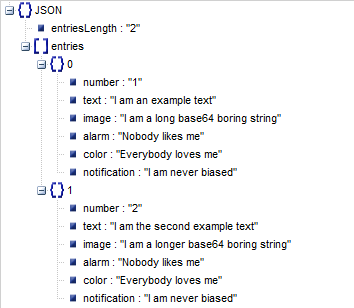
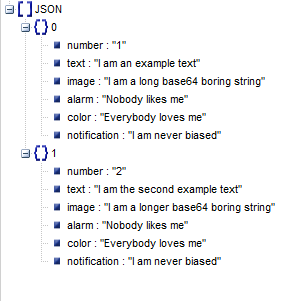
added json serializer/deserializer & new json structure

Changed region(s): [[0.0, 0.0, 1.0, 0.9269], [0.1776, 0.9568, 0.6809, 0.9867]]

diff --git a/SSI/SSI/DatabaseLink.cs b/SSI/SSI/DatabaseLink.cs
@@ -12,28 +12,23 @@ namespace SSI
     class DatabaseLink
     {
         public string error;
+        string defaultUri = "http://localhost/ssi/ssi_api.php?action=";
+        string emailArg = "&email=";
+        string dateArg = "&date=";
+        string image = "&image=";
         public DatabaseLink()
-        {
-
+        {            
         }
         public string GetEvent(string email, string date)
         {
             WebClient wb = new WebClient();
-            string text = wb.DownloadString("http://localhost/ssi/ssi_api.php?action=get_user_event&email="+email+"&date="+date);
+            string text = wb.DownloadString(defaultUri+"get_user_event"+emailArg+email+dateArg+date);
             return text;
-            /*string URI = "http://localhost/ssi/ssi_api.php?action=get_user_event";
-            string myParameters = "email=" + email + "&date=" + date;
-            Uri urivar = new Uri(URI);
-            using (WebClient wc = new WebClient())
-            {
-                wc.Headers[HttpRequestHeader.ContentType] = "application/x-www-form-urlencoded";
-                string result = wc.UploadString(URI, myParameters);                
-                return result;
-            }*/
+            
         }
         public string InsertEvent(string email,string date,string text,string image)
         {
-            string URI = "http://localhost/ssi/ssi_api.php?action=insert_event";
+            string URI = defaultUri+"insert_event";
             string myParameters = "email=" + email +"&date="+date+ "&text=" + text + "&image=" + image;
 
             using (WebClient wc = new WebClient())
@@ -45,7 +40,7 @@ namespace SSI
         }
         public string UserLogin(string email, string password)
         {
-            string URI = "http://localhost/ssi/ssi_api.php?action=login";
+            string URI = defaultUri+"login";
             string myParameters = "email=" + email + "&password=" + password;
 
             using (WebClient wc = new WebClient())
@@ -58,34 +53,35 @@ namespace SSI
         public string InsertUser(string email, string password, string name)
         {
             WebClient wb = new WebClient();
-            string text = wb.DownloadString("http://localhost/ssi/ssi_api.php?action=insert&fbid=' '" + "&email=" + email + "&password=" + password + "&name=" + name);
+            string text = wb.DownloadString(defaultUri+"insert&fbid=' '" + "&email=" + email + "&password=" + password + "&name=" + name);
             return Error(text);
             
         }
         public string InsertUser(string fbid ,string email , string password,string name)
         {
             WebClient wb = new WebClient();
-            string text = wb.DownloadString("http://localhost/ssi/ssi_api.php?action=insert&"+"&fbid="+fbid+"&email="+email+"&password="+password+"&name="+name);
+            string text = wb.DownloadString(defaultUri+"insert&"+"&fbid="+fbid+"&email="+email+"&password="+password+"&name="+name);
             return Error(text);
         }
         public string InsertUser(string fbid, string email, string password, string name, string image)
         {
-            string URI = "http://localhost/ssi/ssi_api.php?action=insert";
+            string URI = defaultUri+"insert";
             string myParameters = "fbid="+fbid+"&email=" + email + "&password=" + password + "&name=" + name + "&image=" + image;
-
-            using (WebClient wc = new WebClient())
+            try
             {
-                wc.Headers[HttpRequestHeader.ContentType] = "application/x-www-form-urlencoded";
-                string result = wc.UploadString(URI, myParameters);
-                return result;
+                using (WebClient wc = new WebClient())
+                {
+                    wc.Headers[HttpRequestHeader.ContentType] = "application/x-www-form-urlencoded";
+                    string result = wc.UploadString(URI, myParameters);
+                    return result;
+                }
+            }
+            catch (System.Net.WebException)
+            {
+                return "Error";
             }
         }
-        /*public string InsertUser(string fbid, string email, string password, string name,string image, string settings)
-        {
-            WebClient wb = new WebClient();
-            string text = wb.DownloadString("http://localhost/ssi/ssi_api.php?action=insert&" + "&fbid=" + fbid + "&email=" + email + "&password=" + password + "&name=" + name + "&image=" + image + "&settings=" + settings);
-            return Error(text);
-        }*/
+        
         public string Error(string result)
         {
             if (result.Contains("ERR_"))

diff --git a/SSI/SSI/Component1.Designer.cs b/SSI/SSI/Component1.Designer.cs
@@ -1,0 +1,36 @@
+namespace SSI
+{
+    partial class Component1
+    {
+        /// <summary>
+        /// Required designer variable.
+        /// </summary>
+        private System.ComponentModel.IContainer components = null;
+
+        /// <summary> 
+        /// Clean up any resources being used.
+        /// </summary>
+        /// <param name="disposing">true if managed resources should be disposed; otherwise, false.</param>
+        protected override void Dispose(bool disposing)
+        {
+            if (disposing && (components != null))
+            {
+                components.Dispose();
+            }
+            base.Dispose(disposing);
+        }
+
+        #region Component Designer generated code
+
+        /// <summary>
+        /// Required method for Designer support - do not modify
+        /// the contents of this method with the code editor.
+        /// </summary>
+        private void InitializeComponent()
+        {
+            components = new System.ComponentModel.Container();
+        }
+
+        #endregion
+    }
+}

diff --git a/SSI/SSI/Component1.cs b/SSI/SSI/Component1.cs
@@ -1,0 +1,25 @@
+using System;
+using System.Collections.Generic;
+using System.ComponentModel;
+using System.Diagnostics;
+using System.Linq;
+using System.Text;
+using System.Threading.Tasks;
+
+namespace SSI
+{
+    public partial class Component1 : Component
+    {
+        public Component1()
+        {
+            InitializeComponent();
+        }
+
+        public Component1(IContainer container)
+        {
+            container.Add(this);
+
+            InitializeComponent();
+        }
+    }
+}

diff --git a/SSI/SSI/EventList.cs b/SSI/SSI/EventList.cs
@@ -1,0 +1,20 @@
+using System;
+using System.Collections.Generic;
+using System.Linq;
+using System.Text;
+using System.Threading.Tasks;
+
+namespace SSI
+{
+    class EventList
+    {
+        public List<EventValues> values = new List<EventValues>();
+    }
+    class EventValues
+    {
+        public int number { set; get; }
+        public string text { set; get; }
+        public bool notif { set; get; }
+    }
+
+}

diff --git a/SSI/SSI/RegisterWindow.cs b/SSI/SSI/RegisterWindow.cs
@@ -27,8 +27,7 @@ namespace SSI
 
         private void browseBtn_Click(object sender, EventArgs e)
         {
-            selectImage.ShowDialog();
-            
+            selectImage.ShowDialog();            
         }
 
         private void registerBtn_Click(object sender, EventArgs e)
